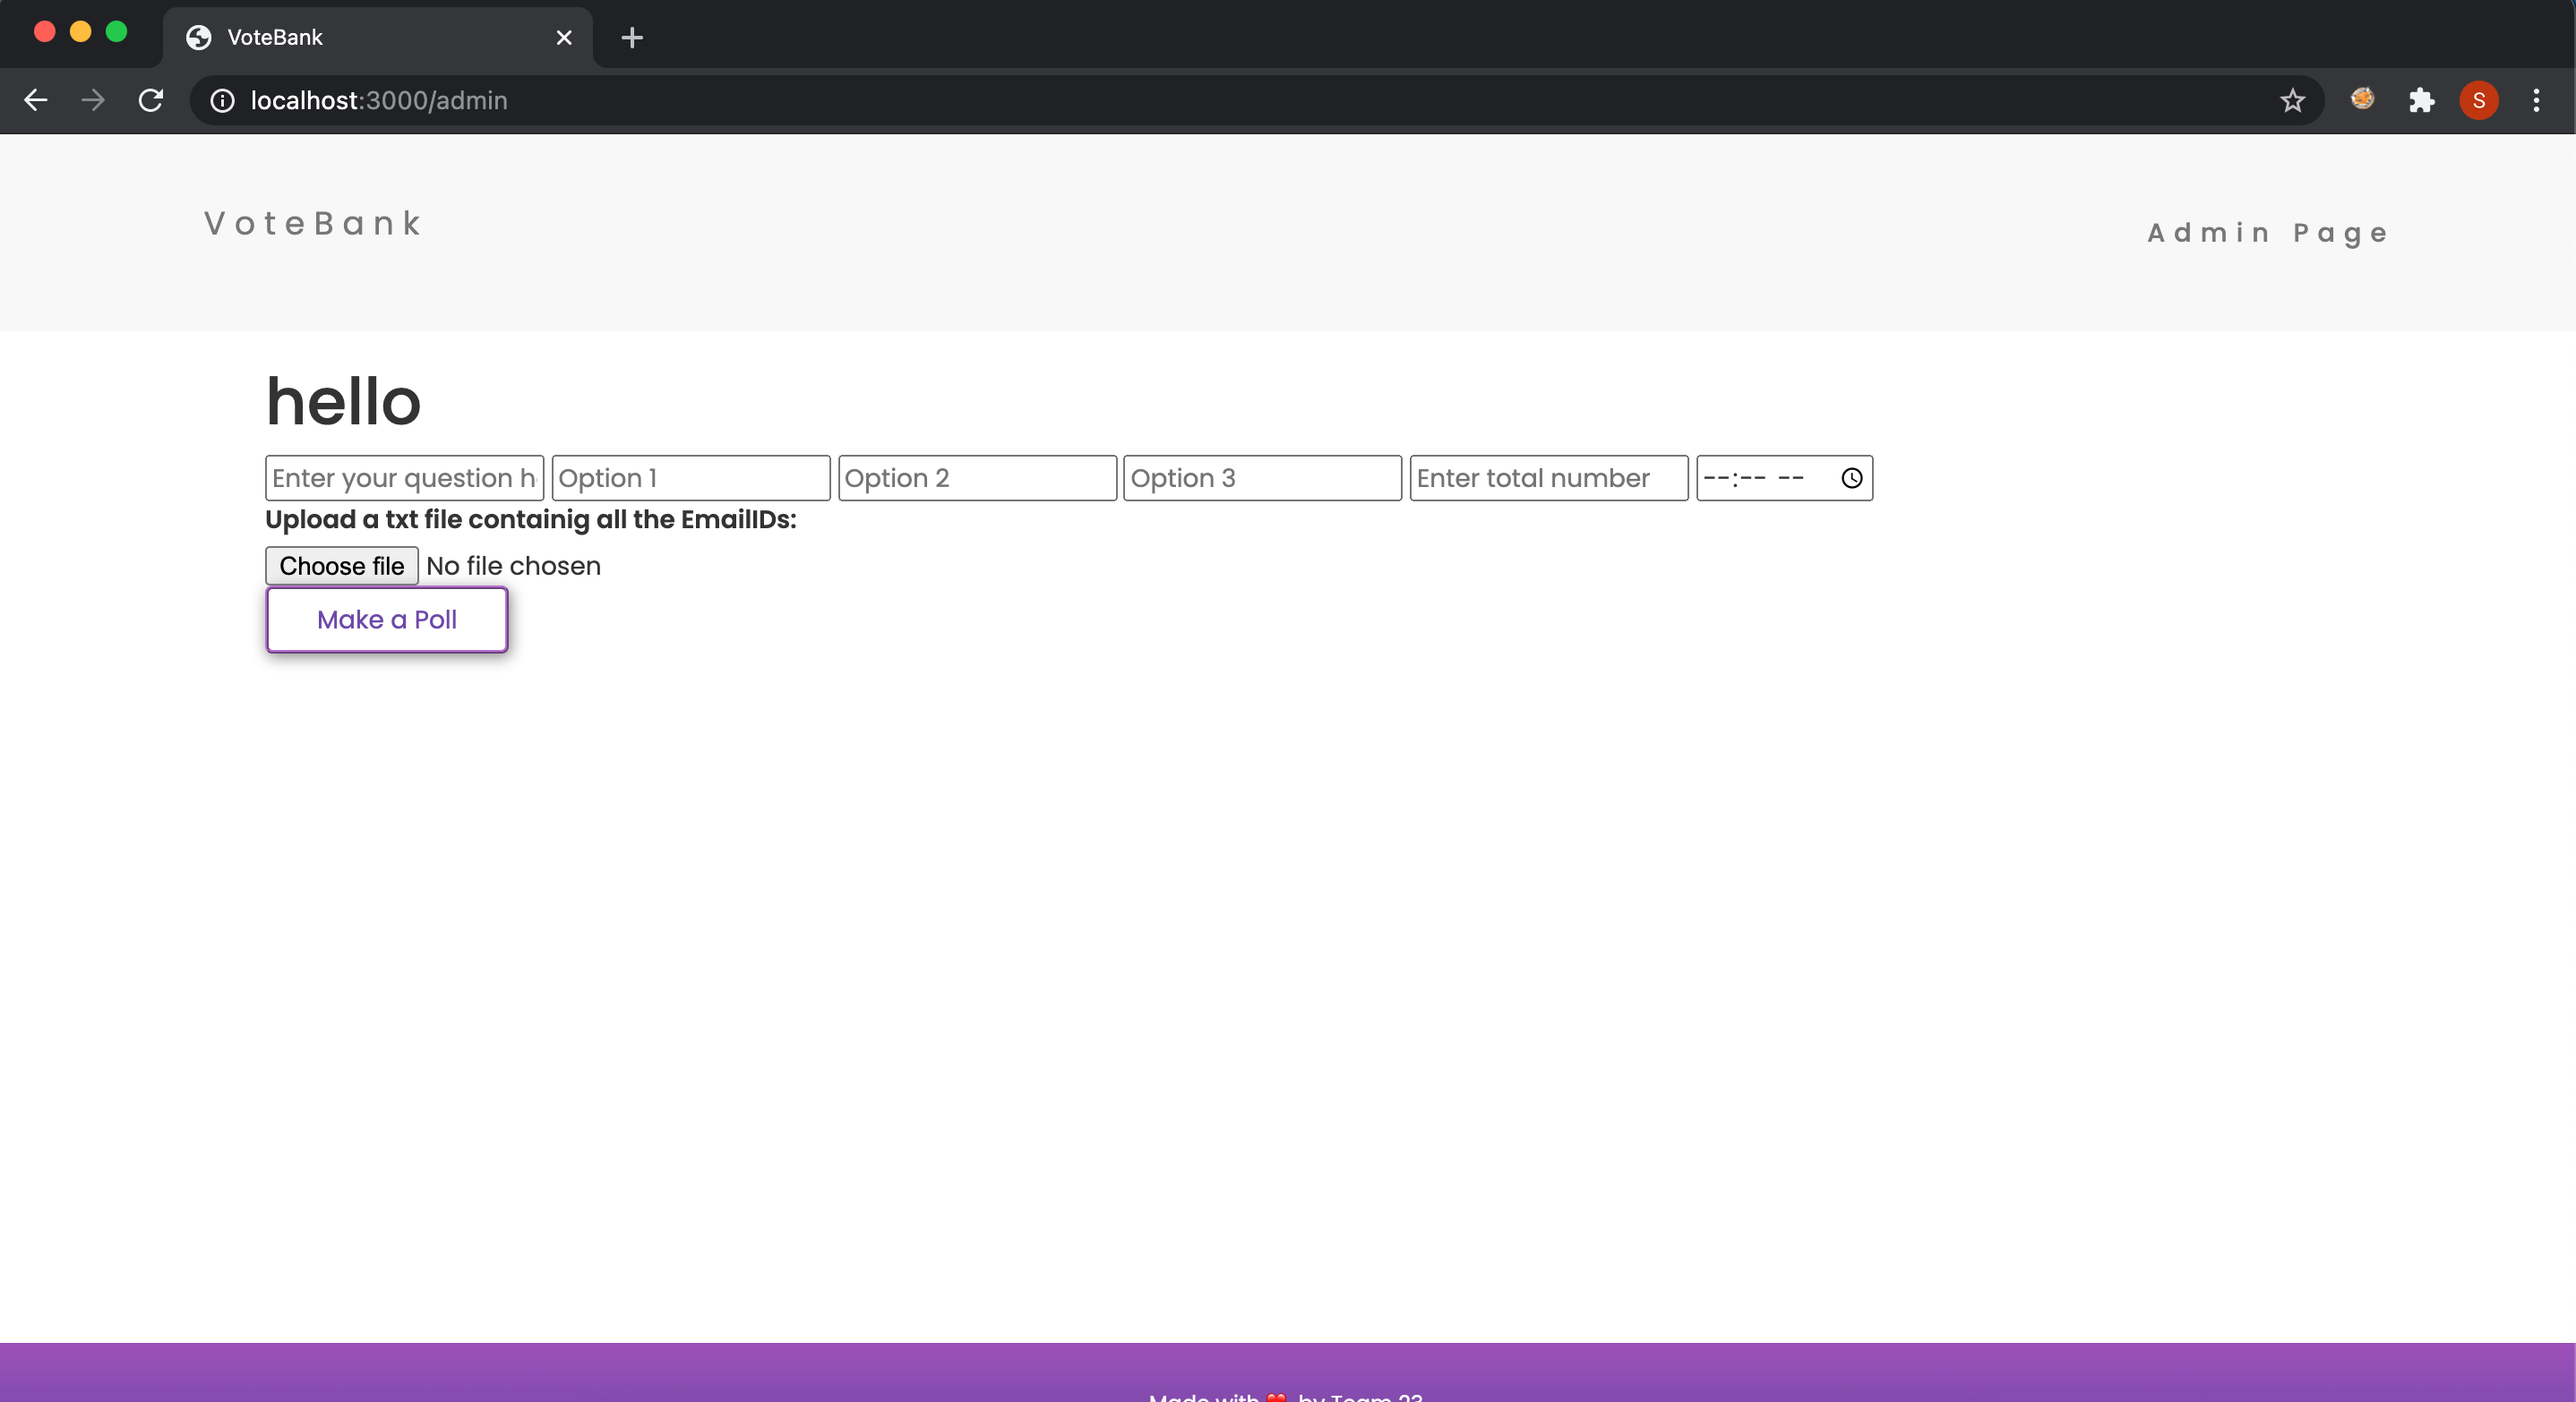
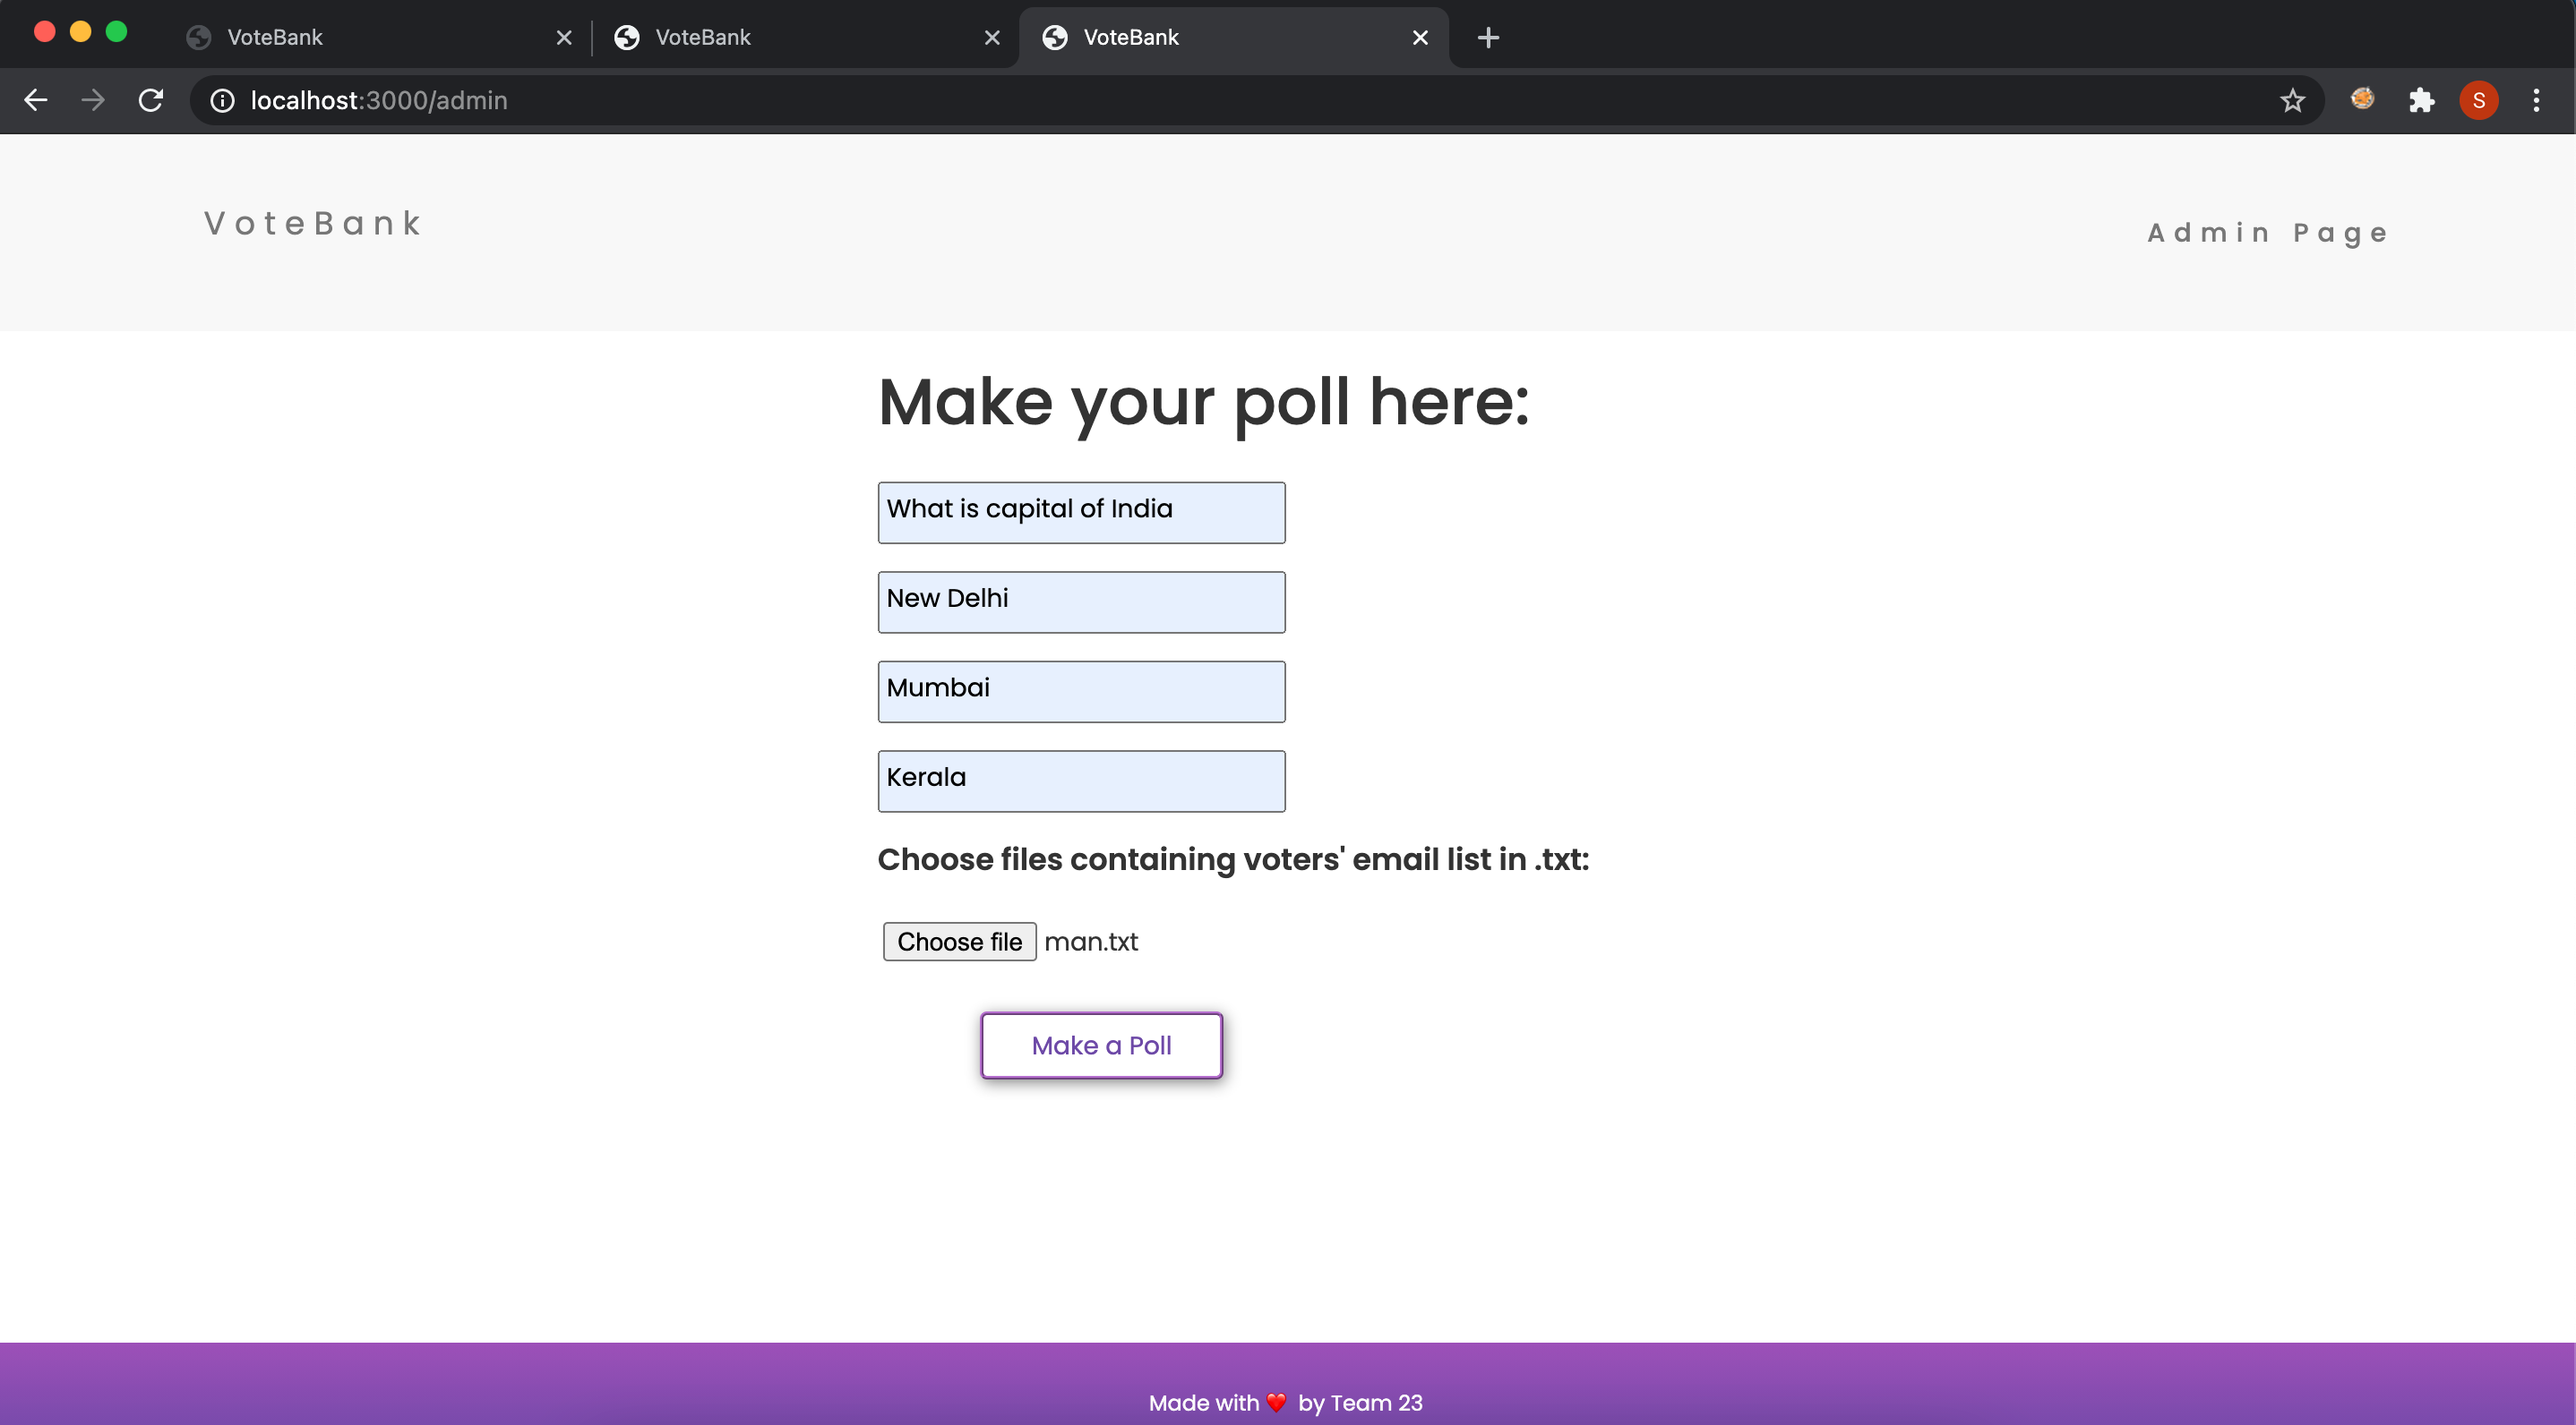
Logic done- Working Project

diff --git a/Application Code/app.js b/Application Code/app.js
@@ -1,10 +1,6 @@
 // initialising all packages
 const express = require('express');
 const bodyParser = require('body-parser');
-const mongoose = require('mongoose');
-const readXlsxFile = require('read-excel-file/node');
-const multer = require('multer');
-const xlxs = require('xlsx');
 const formidable = require('formidable');
 const fs = require('fs');
 
@@ -24,13 +20,12 @@ app.set("view engine","ejs");
 
 
 var voteCounter=0;
-var userQuestion ="What has 4 legs?" ;
+var userQuestion ="" ;
 var options=[];
-var optionsVote=[];
-var totalUsers=5;
-var startTime;
+var optionsVote=[0,0,0];
 var voterArr =[];
 var fileName;
+var flag =1;
 
 /////////////// ADMIN ROUTE /////////////////
 app.get('/admin',function(req,res){
@@ -53,18 +48,21 @@ app.post('/admin',function(req,res){
                         options.push(feilds.op2);
                         options.push(feilds.op3);
                         totalUsers = feilds.totalVoters;
+
+                        if(userQuestion.length<3){
+                    
+                            res.render("adminRes",{err:true,pageName: "Admin Page"});
+                        }
+                        else {
+                            res.render("adminRes",{err:false,pageName: "Admin Page"});
+                        }
+                        console.log(userQuestion);
+                        console.log(userQuestion.length);
     });
 
         
+   
 
-
-    if(userQuestion.length>3&&totalUsers<1){
-
-        res.render("adminRes",{err:true,pageName: "Admin Page"});
-    }
-    else {
-        res.render("adminRes",{err:false,pageName: "Admin Page"});
-    }
         
 });
 
@@ -77,10 +75,12 @@ app.get('/polls',function(req,res){
 
 app.post('/polls',function(req,res){
 
-
-  var array = fs.readFileSync(__dirname+'/uploads/'+fileName).toString().split("\n");
-   for(i in array) {
-       voterArr.push(array[i]);
+ if(flag==1){
+     var array = fs.readFileSync(__dirname+'/uploads/'+fileName).toString().split("\n");
+      for(i in array) {
+          voterArr.push(array[i]);
+          flag = 0;
+ }
    }
    if(voterArr.includes(req.body.mail)){
         if(req.body.op === options[0]){
@@ -94,7 +94,10 @@ app.post('/polls',function(req,res){
 
       var index = voterArr.indexOf(req.body.mail)
        console.log(index);
-        voterArr.splice(index,1);
+       if (index > -1) {
+        voterArr.splice(index, 1);
+      }
+        
    }
 
    console.log(voterArr);
@@ -104,6 +107,13 @@ app.post('/polls',function(req,res){
 
 });
 
+//////////////// RESULT ROUTE ///////////////////
+
+app.get('/result',function(req,res){
+
+    res.render('result',{pageName: "Result",op1:options[0],v1:optionsVote[0],op2:options[1],v2:optionsVote[1],op3:options[2],v3:optionsVote[2]});
+
+});
 
 // set up the server to listen at a port
 app.listen('3000',function(){

diff --git a/Application Code/public/css/styles.css b/Application Code/public/css/styles.css
@@ -168,7 +168,27 @@ h2{
 
 }
 
+/* ADMIN */
 
+.admin input{
+    margin-top: 15px;
+    margin-left: 10%;
+    width: 20%;
+    padding: 3px 8px 8px 3px;
+}
+.admin label{
+    margin-top: 15px;
+    margin-left: 10%;
+    font-size: larger;
+}
+.admin button{
+    margin-left: 15%;
+    margin-top: 20px;
+}
+
+ h1{
+    margin-left: 30%;
+}
 
 
 
